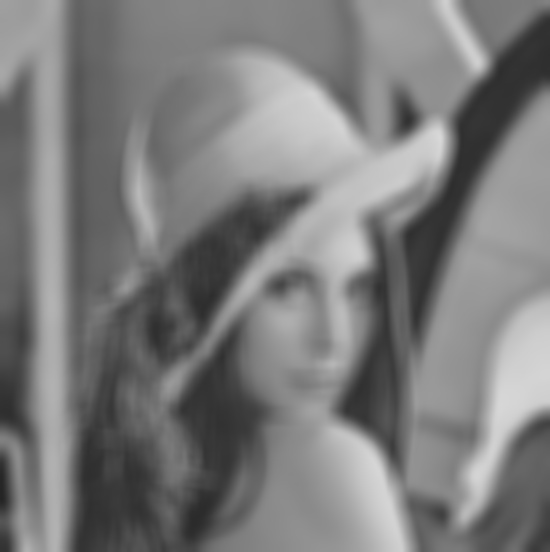
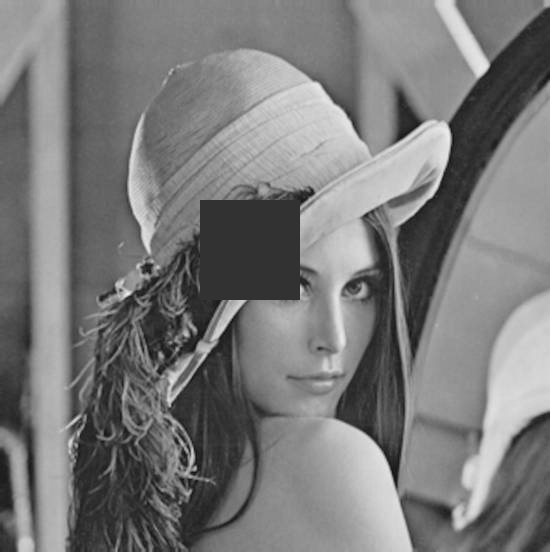
matrix operations

diff --git a/opencv/Main.cpp b/opencv/Main.cpp
@@ -9,7 +9,7 @@ int main()
 {
     Mat current_img,src;
     Mat gray,blur;
-    Mat img = imread("C:/Dev/opencv/opencv/images/lena.jpg");
+    Mat img = imread("images/lena.jpg");
     auto start = std::chrono::steady_clock::now();
     Operation opimage(img);
     
@@ -19,10 +19,16 @@ int main()
     imshow("image gray", gray);
     
     //cvtColor(img, img_gray, cv::COLOR_BGR2GRAY);
-    opimage.op_blur(gray, blur);
+    /*opimage.op_blur(gray, blur);
     namedWindow("image blur", WINDOW_NORMAL);
-    imshow("image blur", blur);
-
+    imshow("image blur", blur);*/
+    Square zone;
+    cv::Point top_left(200, 200);
+    zone.a = top_left;
+    zone.size = 100;
+    opimage.op_blur_zone(gray, blur, zone);
+    namedWindow("image blur zone", WINDOW_NORMAL);
+    imshow("image blur zone", blur); 
 
     opimage.op_get_current_img(current_img);
     opimage.op_get_src_img(src);
@@ -36,9 +42,9 @@ int main()
     
     imagelist images_input;
 
-    images_input.push_back(cv::imread("C:/Dev/opencv/opencv/images/scottsdale/imgA.jpg"));
-    images_input.push_back(cv::imread("C:/Dev/opencv/opencv/images/scottsdale/imgB.jpg"));
-    images_input.push_back(cv::imread("C:/Dev/opencv/opencv/images/scottsdale/imgC.jpg"));
+    images_input.push_back(cv::imread("images/scottsdale/imgA.jpg"));
+    images_input.push_back(cv::imread("images/scottsdale/imgB.jpg"));
+    images_input.push_back(cv::imread("images/scottsdale/imgC.jpg"));
 
     cv::Mat output;
 
@@ -51,9 +57,9 @@ int main()
     namedWindow("image panorama", WINDOW_NORMAL);
     imshow("image panorama", output);
 
-    cv::imwrite("C:/Dev/opencv/opencv/images/output/panorama.jpg", output);
-    cv::imwrite("C:/Dev/opencv/opencv/images/output/blur.jpg", blur);
-    cv::imwrite("C:/Dev/opencv/opencv/images/output/gray.jpg", gray);
+    cv::imwrite("images/output/panorama.jpg", output);
+    cv::imwrite("images/output/blur.jpg", blur);
+    cv::imwrite("images/output/gray.jpg", gray);
     waitKey(0);
     return 0;
 }

diff --git a/opencv/Operation.cpp b/opencv/Operation.cpp
@@ -87,8 +87,25 @@ bool Operation::op_blur(cv::Mat& t_img, cv::Mat& t_blur)
 	return true;
 }
 
+bool Operation::op_blur_zone(cv::Mat& t_img, cv::Mat& t_blur, const Square t_zone)
+{
+	cv::Mat kernel = 1.0f / 400.0f * (Mat_<double>(20, 20, 1));
+
+	for (int i = t_zone.a.y; i < t_zone.a.y + t_zone.size; i++)
+	{
+		for (int j = t_zone.a.x; j < t_zone.a.x + t_zone.size; j++)
+		{
+			Point3_<uchar>* p = t_img.ptr<Point3_<uchar> >(i, j);
+			m_img.at<uchar>(i, j) = 50;
+		}
+	}
+	t_blur = m_img;  
+	return true;
+}
+
 bool Operation::op_stitch(const imagelist& images, cv::Mat& pano)
 {
+	//stitch multiple images together in images to compose a panorama in pano
 	if (images.empty())
 		return false;
 	Stitcher::Mode mode = Stitcher::PANORAMA;

diff --git a/opencv/Operation.h b/opencv/Operation.h
@@ -2,6 +2,12 @@
 
 typedef std::vector<cv::Mat> imagelist;
 
+struct Square
+{
+	cv::Point a; //left top
+	int size;
+};
+
 class Operation
 {
 	private:
@@ -13,6 +19,7 @@ class Operation
 	public:
 	bool op_rgbtogray(cv::Mat& t_img, cv::Mat& t_gray);
 	bool op_blur(cv::Mat& t_img, cv::Mat& t_blur);
+	bool op_blur_zone(cv::Mat& t_img, cv::Mat& t_blur, const Square t_zone);
 	bool op_get_src_img(cv::Mat& t_img);
 	bool op_get_current_img(cv::Mat& t_img);
 	bool op_add_img_src(cv::Mat& t_img);

diff --git a/opencv/Matrix.cpp b/opencv/Matrix.cpp
@@ -1,0 +1,18 @@
+#include "Matrix.h"
+
+
+Matrix::Matrix() {
+	int test = 4;
+}
+Matrix::~Matrix() {
+	int test = 4;
+}
+
+cv::Mat operator+(const cv::Mat& A, const cv::Mat& B) {
+	cv::Mat test = cv::Mat(2, 2, CV_8UC1, cv::Scalar(0, 0, 0));
+	return test;
+}
+cv::Mat operator*(const cv::Mat& A, const cv::Mat& B) {
+	cv::Mat test = cv::Mat(2, 2, CV_8UC1, cv::Scalar(0, 0, 0));
+	return test;
+}

diff --git a/opencv/Matrix.h b/opencv/Matrix.h
@@ -1,0 +1,19 @@
+#pragma once
+#include<opencv2/opencv.hpp>
+#include<iostream>
+
+
+class Matrix
+{	
+	public:
+		Matrix();
+		~Matrix();
+
+	private:
+	int lines;
+	int cols;
+	cv::Mat M;
+};
+
+cv::Mat operator+(const cv::Mat& A, const cv::Mat& B);
+cv::Mat operator*(const cv::Mat& A, const cv::Mat& B);
